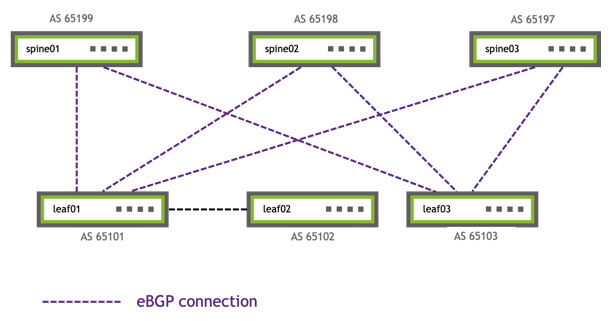
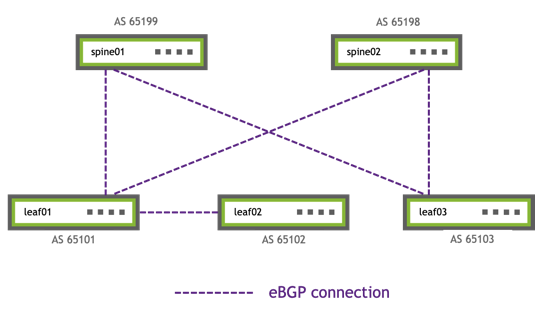
add-path TX

diff --git a/content/cumulus-linux-42/Layer-3/Border-Gateway-Protocol-BGP/Optional-BGP-Configuration.md b/content/cumulus-linux-42/Layer-3/Border-Gateway-Protocol-BGP/Optional-BGP-Configuration.md
@@ -386,7 +386,7 @@ exit-address-family
 ...
 ```
 
-When *BGP multipath* is enabled, only BGP routes from the same AS are load balanced. If the routes go across several different AS neighbors, even if the AS path length is same, they are not load balanced. To be able to load balance between multiple paths received from different AS neighbors, you need to set the *bestpath as-path multipath-relax* option.
+When *BGP multipath* is enabled, only BGP routes from the same AS are load balanced. If the routes go across several different AS neighbors, even if the AS path length is same, they are not load balanced. To be able to load balance between multiple paths received from different AS neighbors, you need to set the `bestpath as-path multipath-relax`*` option.
 
 {{< tabs "12 ">}}
 
@@ -860,7 +860,7 @@ Hostname: spine01
 ...
 ```
 
-The example output above shows that additional BGP paths can be sent and received (TX and RX are advertised). It also shows that the BGP neighbor, fe80::7c41:fff:fe93:b711, supports both.
+The example output above shows that additional BGP paths can be sent and received (TX and RX are advertised). It also shows that the BGP neighbor on swp51, supports both.
 
 To view the current additional paths, run the NCLU `net show bgp <router-id>` command or the `vtysh show ip bgp <router-id>` command.
 
@@ -888,11 +888,11 @@ Paths: (2 available, best #1, table Default-IP-Routing-Table)
 
 ### BGP add-path TX
 
-Add-path TX enables BGP to advertise more than just the bestpath for a prefix. Cumulus Linux includes two options:
+Add-path TX enables BGP to advertise more than just the best path for a prefix. Cumulus Linux includes two options:
 - `addpath-tx-all-paths` advertises all known paths to a neighbor
 - `addpath-tx-bestpath-per-AS` advertises only the best path learned from each AS to a neighbor
 
-The following example commands configure leaf01 to advertise the best path learned from each AS to its neighbor 169.254.10.2:
+The following example commands configure leaf01 to advertise the best path learned from each AS to the BGP neighbor on swp50:
 
 {{< tabs "897 ">}}
 
@@ -900,7 +900,7 @@ The following example commands configure leaf01 to advertise the best path learn
 
 ```
 cumulus@leaf01:~$ net add bgp autonomous-system 65101
-cumulus@leaf01:~$ net add bgp neighbor 169.254.10.2 addpath-tx-bestpath-per-AS
+cumulus@leaf01:~$ net add bgp neighbor swp50 addpath-tx-bestpath-per-AS
 cumulus@leaf01:~$ net pending
 cumulus@leaf01:~$ net commit
 ```
@@ -914,7 +914,7 @@ cumulus@leaf01:~$ sudo vtysh
 
 leaf01# configure terminal
 leaf01(config)# router bgp 65101
-leaf01(config-router)# neighbor 169.254.10.2 addpath-tx-bestpath-per-AS
+leaf01(config-router)# neighbor swp50 addpath-tx-bestpath-per-AS
 leaf01(config-router)#
 ```
 
@@ -922,7 +922,7 @@ leaf01(config-router)#
 
 {{< /tabs >}}
 
-The following example commands configure leaf01 to advertise all paths learned from each AS to its neighbor 169.254.10.2:
+The following example commands configure leaf01 to advertise all paths learned from each AS to the BGP neighbor on swp50:
 
 {{< tabs "927 ">}}
 
@@ -930,7 +930,7 @@ The following example commands configure leaf01 to advertise all paths learned f
 
 ```
 cumulus@leaf01:~$ net add bgp autonomous-system 65101
-cumulus@leaf01:~$ net add bgp neighbor 169.254.10.2 addpath-tx-all-paths
+cumulus@leaf01:~$ net add bgp neighbor swp50 addpath-tx-all-paths
 cumulus@leaf01:~$ net pending
 cumulus@leaf01:~$ net commit
 ```
@@ -944,7 +944,7 @@ cumulus@leaf01:~$ sudo vtysh
 
 leaf01# configure terminal
 leaf01(config)# router bgp 65101
-leaf01(config-router)# neighbor 169.254.10.2 addpath-tx-all-paths
+leaf01(config-router)# neighbor swp50 addpath-tx-all-paths
 leaf01(config-router)#
 ```
 
@@ -954,10 +954,31 @@ leaf01(config-router)#
 
 The following example configuration shows how BGP add-path TX is used to advertise the best path learned from each AS:
 
-|    |    |
+| <div style="width:500px">   |    |
 | -- | -- |
-| {{< img src = "/images/cumulus-linux/bgp-add-path-tx.png" >}} | <ul><li>Every leaf and every spine has a different ASN</li><li>eBGP is configured between:<ul><li>leaf01 and spine01, spine02, and spine03</li><li>leaf03 and spine01, spine02, and spine03</li><li>leaf01 and leaf02 (leaf02 only has a single peer, leaf01)</li></ul>|
-| <pre> | <ul><li>leaf01 is configured to advertise the bestpath learned from each AS to its neighbor leaf02</li><li>Leaf03 generates a loopback IP into BGP with a network statement</li><li>The `show ip bgp 10.10.10.3/32` command output shows the leaf03 loopback.</li></ul> |
+| {{< img src = "/images/cumulus-linux/bgp-add-path-tx.png" >}} | In this configuration:<ul><li>Every leaf and every spine has a different ASN</li><li>eBGP is configured between:<ul><li>leaf01 and spine01, spine02</li><li>leaf03 and spine01, spine02</li><li>leaf01 and leaf02 (leaf02 only has a single peer, which is leaf01)</li></ul><li>leaf01 is configured to advertise the best path learned from each AS to BGP neighbor leaf02</li><li>leaf03 generates a loopback IP address (10.10.10.3/32) into BGP with a network statement</li></ul>|
+
+When you run the `net show bgp 10.10.10.3/32` command on leaf02, the command output shows the leaf03 loopback IP address:
+
+```
+cumulus@leaf02:mgmt:~$ net show bgp 10.10.10.3/32
+BGP routing table entry for 10.10.10.3/32
+Paths: (2 available, best #2, table default)
+       Advertised to non peer-group peers:
+       leaf01(swp50)
+  65101 65199 65103
+    fe80::4638:39ff:fe00:13 from leaf01(swp50) (10.10.10.1)
+    (fe80::4638:39ff:fe00:13) (used)
+      Origin IGP, valid, external
+      AddPath ID: RX 4, TX-All 0 TX-Best-Per-AS 0
+      Last update: Thu Oct 15 18:31:46 2020
+  65101 65198 65103
+    fe80::4638:39ff:fe00:13 from leaf01(swp50) (10.10.10.1)
+    (fe80::4638:39ff:fe00:13) (used)
+      Origin IGP, valid, external, bestpath-from-AS 65101, best (Nothing left to compare)
+      AddPath ID: RX 3, TX-All 0 TX-Best-Per-AS 0
+      Last update: Thu Oct 15 18:31:46 2020
+```
 
 ## Graceful BGP Shutdown
 
